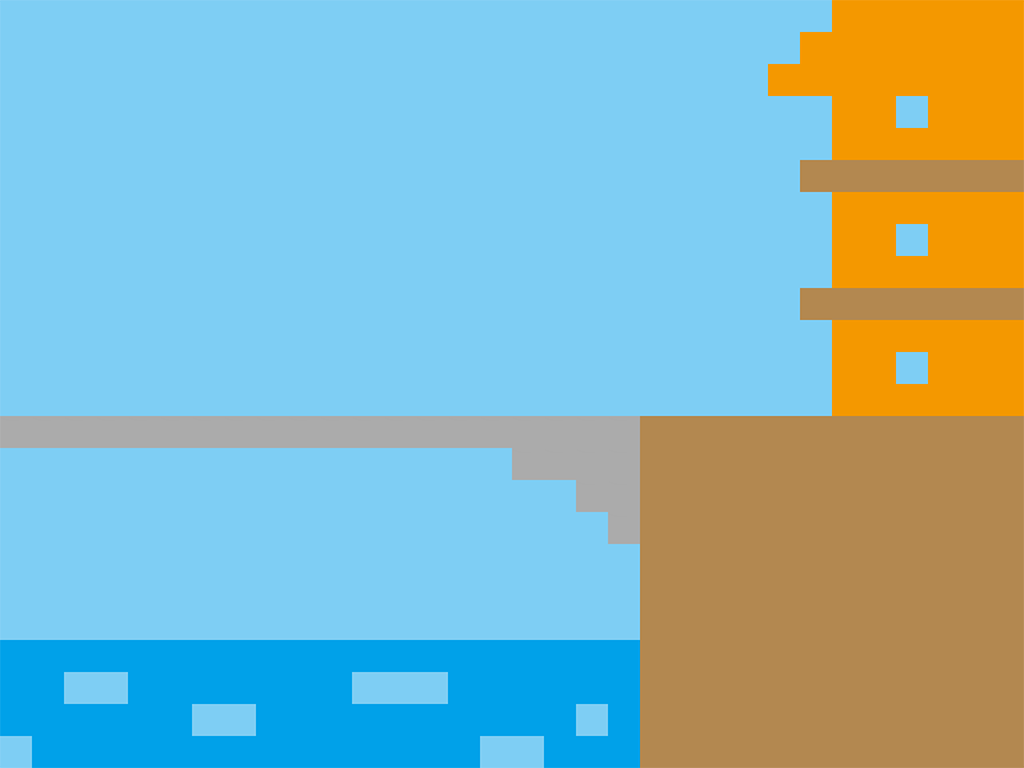
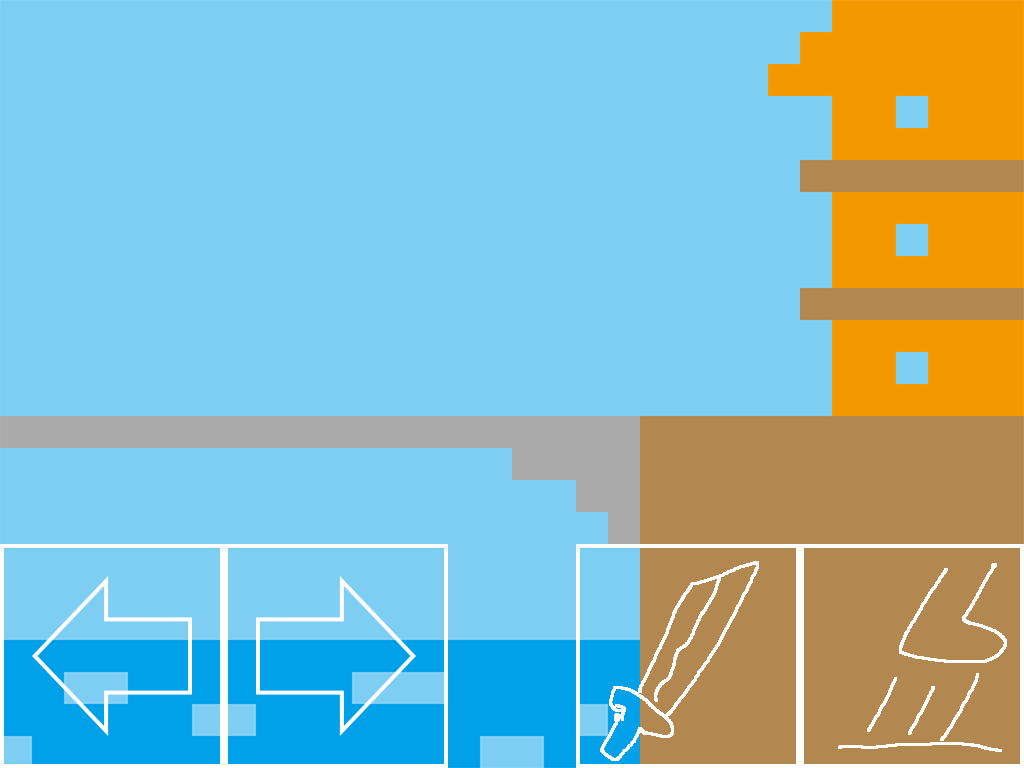
1.0
Done!

Changed region(s): [[0.5625, 0.6875, 1.0, 1.0], [0.0, 0.6875, 0.4375, 1.0]]

diff --git a/captain_of_guerilla/src/myApp.js b/captain_of_guerilla/src/myApp.js
@@ -40,6 +40,7 @@ var MyLayer = cc.Layer.extend({
 	_lblBest:null,
 	_lblTutorial:null,
 	_lblTheme:null,
+	_lblSubTitle:null,
 	_maxEnemy:3,
 	_playTime:0,
     init:function () {
@@ -90,6 +91,12 @@ var MyLayer = cc.Layer.extend({
 		this._lblTheme.setPosition(512,600);
 		this.addChild(this._lblTheme,g_Label);
 		
+		//init sub title
+		this._lblSubTitle=cc.LabelTTF.create("Cecil Ma\'s","Arial",32);
+		this._lblSubTitle.setAnchorPoint(0,1);
+		this._lblSubTitle.setPosition(156,640);
+		this.addChild(this._lblSubTitle,g_Label);
+		
 		//enable key press
 		this.setKeyboardEnabled(true);
 		
@@ -99,9 +106,49 @@ var MyLayer = cc.Layer.extend({
 		//start running
 		this.schedule(this.update,0);
     },
-	//test use
+	onTouchesBegan:function(pTouch,pEvent){
+		if(!this._isRunning){
+			return;
+		}
+		if(!this._hero._alive){
+			return;
+		}
+		for(x in pTouch){
+			var pos=pTouch[x].getLocation();
+			if(pos.y<=7*32){
+				if(pos.x<=7*32){
+					this._hero.keyDown(cc.KEY.left);
+				}else if(pos.x<=14*32){
+					this._hero.keyDown(cc.KEY.right);
+				}else if(pos.x>=25*32){
+					this._hero.keyDown(cc.KEY.k);
+				}else if(pos.x>=18*32){
+					this._hero.keyDown(cc.KEY.j);
+				}
+			}
+		}
+	},
 	onTouchesEnded:function (pTouch,pEvent){
-        //alert(this._bg.isBlock(pTouch[0].getLocation()));
+		if(!this._isRunning){
+			return;
+		}
+		if(!this._hero._alive){
+			return;
+		}
+		for(x in pTouch){
+			var pos=pTouch[x].getLocation();
+			if(pos.y<=7*32){
+				if(pos.x<=7*32){
+					this._hero.keyUp(cc.KEY.left);
+				}else if(pos.x<=14*32){
+					this._hero.keyUp(cc.KEY.right);
+				}else if(pos.x>=25*32){
+					this._hero.keyUp(cc.KEY.k);
+				}else if(pos.x>=18*32){
+					this._hero.keyUp(cc.KEY.j);
+				}
+			}
+		}
     },
 	onKeyDown:function(e){
 		if(this._hero._alive){
@@ -158,6 +205,7 @@ var MyLayer = cc.Layer.extend({
 		//remove tutorial and theme
 		this._lblTutorial.setVisible(false);
 		this._lblTheme.setVisible(false);
+		this._lblSubTitle.setVisible(false);
 		
 		//init Score
 		this._score=0;
@@ -188,12 +236,16 @@ var MyLayer = cc.Layer.extend({
 		if(this._enemies.length<this._maxEnemy){
 			//enemy on the ground
 			var rand1=Math.random();
-			if(rand1<0.01){
+			if(rand1<0.007){
 				var enemy=new Enemy(1);
 				this.addChild(enemy,g_Enemy);
 				this._enemies.push(enemy);
-			}else if(rand1<0.02){
+			}else if(rand1<0.014){
 				var enemy=new Enemy(2);
+				this.addChild(enemy,g_Enemy);
+				this._enemies.push(enemy);
+			}else if(rand1<0.021){
+				var enemy=new Enemy(3);
 				this.addChild(enemy,g_Enemy);
 				this._enemies.push(enemy);
 			}
@@ -209,6 +261,18 @@ var MyLayer = cc.Layer.extend({
 				if(this._enemies[x].getPosition().y==22*32){
 					this._enemies[x].fire(this._hero,this._bullets);
 					this.addChild(this._bullets[this._bullets.length-1],g_Bullet);
+				}
+			}else{
+				this._enemies[x].action3();
+				//fire
+				if(this._hero.getPosition().x<24*32&&this._enemies[x].getPosition().x==25*32&&this._enemies[x]._aimTime==30){
+					this._enemies[x].fire(this._hero,this._bullets);
+					this.addChild(this._bullets[this._bullets.length-1],g_Bullet);
+				}
+				//retreat
+				if(this._enemies[x].getPosition().x>31*32){
+					this.removeChild(this._enemies[x]);
+					this._enemies.splice(x,1);
 				}
 			}
 		}
@@ -284,6 +348,7 @@ var MyLayer = cc.Layer.extend({
 			this._btnStart.setVisible(true);
 			this._lblTutorial.setVisible(true);
 			this._lblTheme.setVisible(true);
+			this._lblSubTitle.setVisible(true);
 		}
 	},
 	addScore:function(){

diff --git a/captain_of_guerilla/src/Enemy.js b/captain_of_guerilla/src/Enemy.js
@@ -3,6 +3,7 @@ var Enemy=cc.Sprite.extend({
 	_frame:0,
 	_face:0,//0:left 1:right
 	_animation:g_Left1,
+	_aimTime:0,
 	ctor:function(mode){
 		this._super();
 		this._mode=mode;
@@ -12,6 +13,13 @@ var Enemy=cc.Sprite.extend({
 		}else if(this._mode==2){
 			this.setPosition(cc.p(Math.random()*768,768));
 			this.changePic(s_enemy_left_fall);
+		}else if(this._mode==3){
+			if(Math.random()<0.5){
+				this.setPosition(31*32,15*32);
+			}else{
+				this.setPosition(31*32,19*32);
+			}
+			this.changePic(s_enemy_left_1);
 		}
 	},
 	changePic:function(pic){
@@ -90,6 +98,41 @@ var Enemy=cc.Sprite.extend({
 			this.setPosition(pos.x,pos.y-g_EnemySpeed/2);
 		}else{
 			this._mode=1;
+		}
+	},
+	action3:function(){
+		var pos=this.getPosition();
+	
+		//handle frame
+		this._frame++;
+		if(this._frame>=30){
+			this._frame-=30;
+		}
+	
+		if((pos.x==25*32)&&this._aimTime<60){
+			this._aimTime++;
+		}else{
+			//change pic
+			if(this._frame<15){
+				if(this._animation!=g_Left1){
+					this.changePic(s_enemy_left_1);
+					this._animation=g_Left1;
+				}
+			}else{
+				if(this._animation!=g_Left2){
+					this.changePic(s_enemy_left_2);
+					this._animation=g_Left2;
+				}
+			}
+			
+			//move
+			if(this._aimTime==0){
+				//forward
+				this.setPosition(pos.x-g_EnemySpeed/2,pos.y);
+			}else{
+				//back
+				this.setPosition(pos.x+g_EnemySpeed/2,pos.y);
+			}
 		}
 	},
 	fire:function(hero,bullets){
